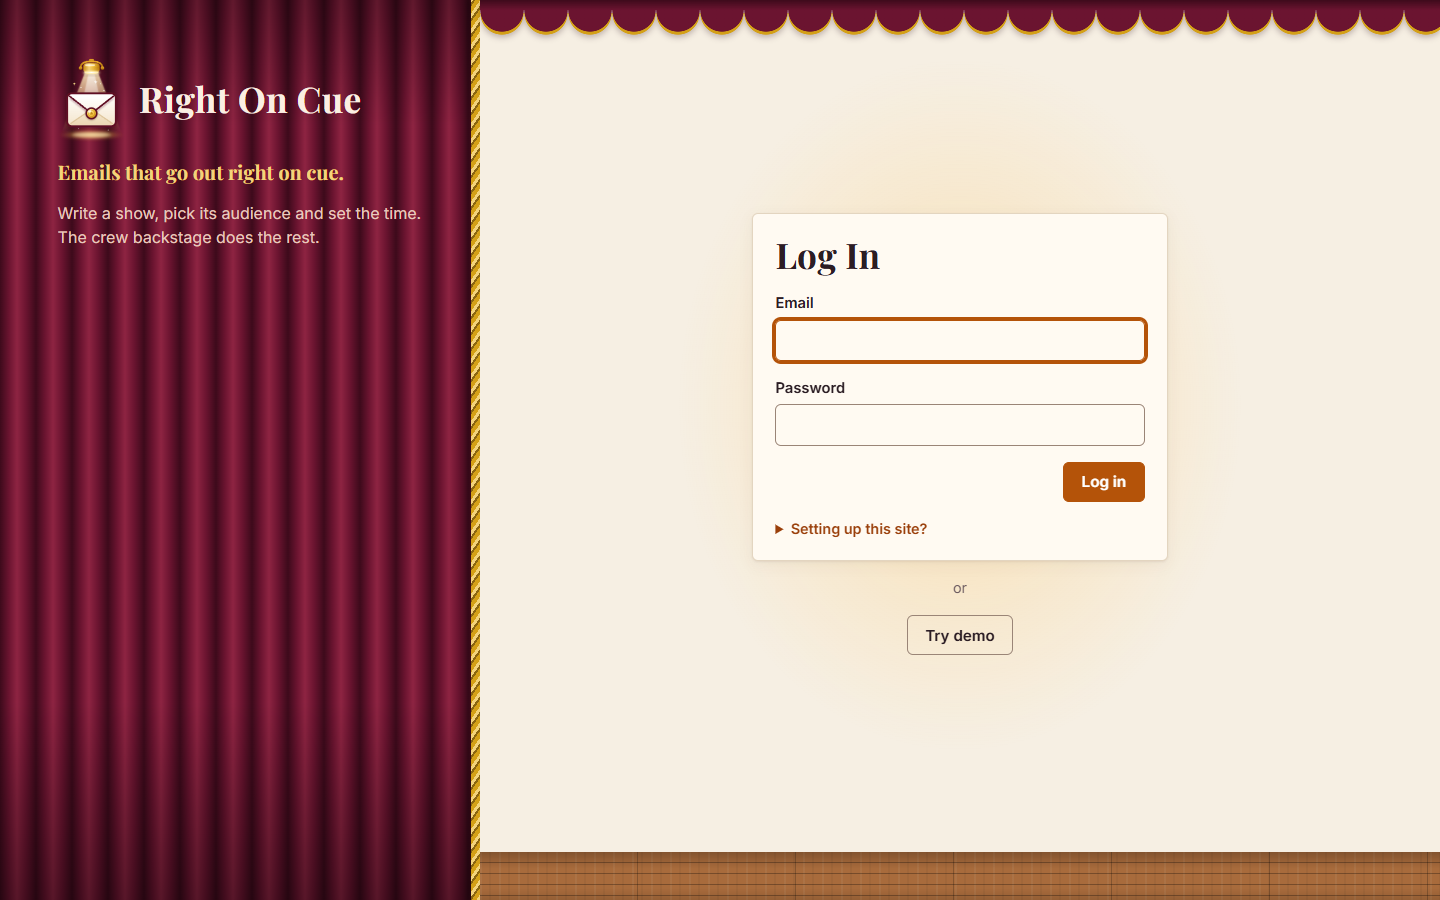
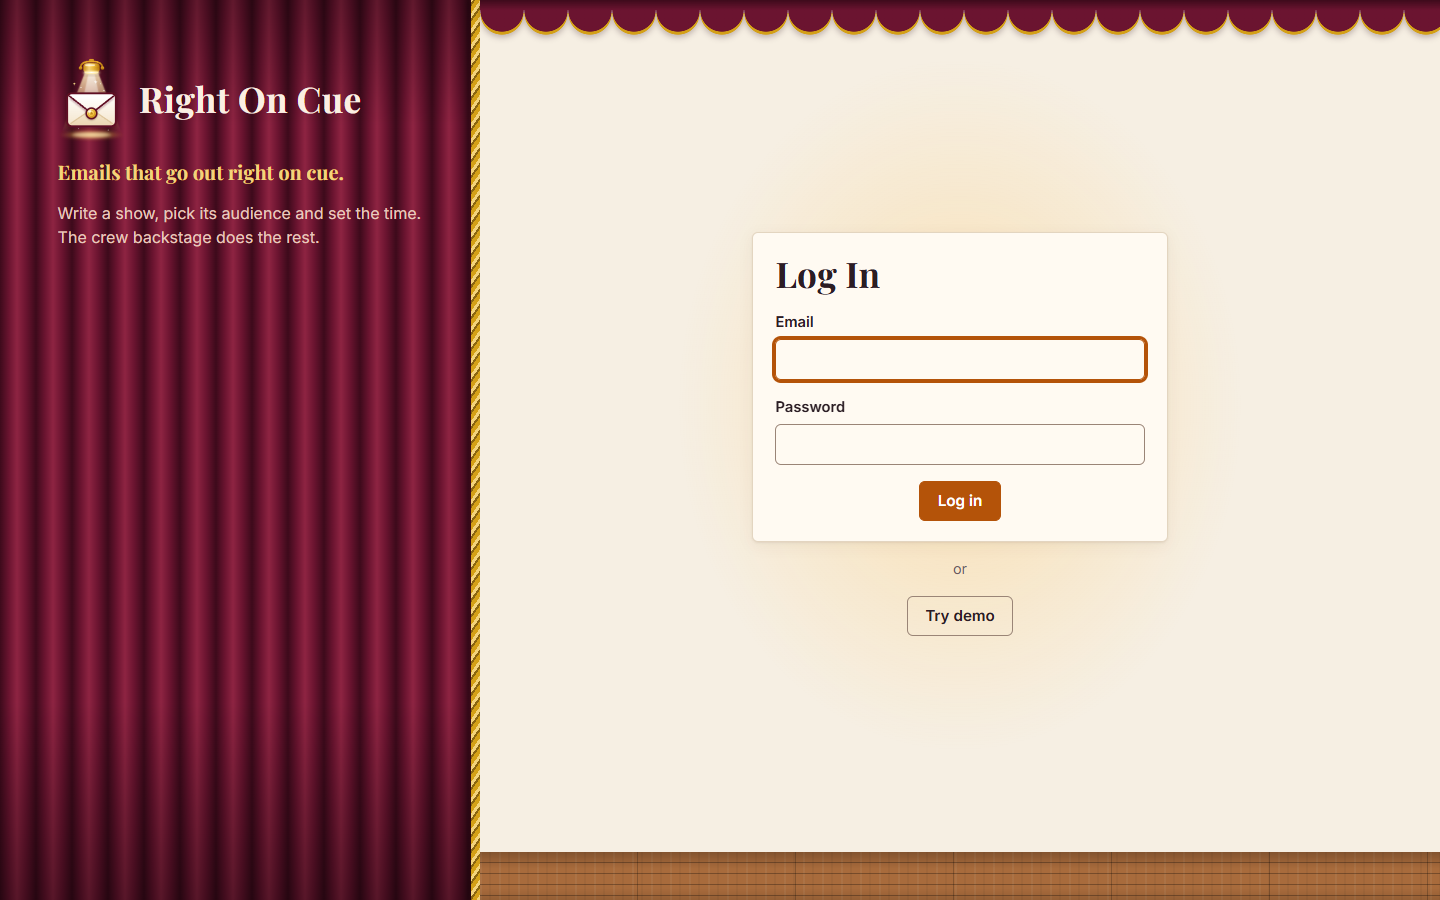
Centre the Log in button and drop the setup note
The login card's button now sits in the middle. The "Setting up this
site?" fold is gone; how to make the owner's login stays in
docs/DEPLOY.md, part 3. README login picture retaken.

Changed region(s): [[0.5312, 0.2178, 0.8125, 0.4667], [0.5, 0.4978, 0.8125, 0.6222], [0.625, 0.6533, 0.6875, 0.7156]]

diff --git a/oncue/static/style.css b/oncue/static/style.css
@@ -408,6 +408,7 @@ input:focus-visible, select:focus-visible, textarea:focus-visible { outline: 3px
 .form-row > .field { flex: 1 1 14rem; }
 .form-actions { display: flex; flex-wrap: wrap; gap: .6rem; justify-content: flex-end; align-items: center; }
 .form-actions.start { justify-content: flex-start; }
+.form-actions.center { justify-content: center; }
 .check { display: inline-flex; align-items: flex-start; gap: .55rem; cursor: pointer; }
 .check input { width: 1.1rem; height: 1.1rem; margin: .2rem 0 0; accent-color: var(--accent); flex: 0 0 auto; }
 .choices { display: flex; flex-wrap: wrap; gap: .5rem 1.25rem; border: 0; padding: 0; }
@@ -749,8 +750,6 @@ input[type="number"] { max-width: 12rem; }
 @keyframes spin { to { transform: rotate(360deg); } }
 @media (prefers-reduced-motion: reduce) { .spinner { animation: none; } }
 
-.setup-note { margin-top: 1rem; font-size: .9rem; }
-.setup-note > summary { color: var(--muted); font-weight: 600; }
 .field-help { margin-top: -.6rem; color: var(--muted); font-size: .9rem; }
 .live-tag { display: inline-block; margin-left: .3rem; padding: .05rem .45rem; border-radius: 3px; background: var(--danger-soft); color: var(--danger); font: 700 .72rem/1.5 var(--font-label); letter-spacing: .06em; text-transform: uppercase; }
 .crew-state { display: inline-flex; align-items: center; gap: .4rem; }

diff --git a/oncue/templates/login.html b/oncue/templates/login.html
@@ -20,15 +20,8 @@
           <input type="hidden" name="next" value="{{ next }}">
           {{ field('email', 'Email', email, type='email', attrs='autocomplete="email" required autofocus') }}
           {{ field('password', 'Password', type='password', attrs='autocomplete="current-password" required') }}
-          <div class="form-actions"><button class="button" type="submit">Log in</button></div>
+          <div class="form-actions center"><button class="button" type="submit">Log in</button></div>
         </form>
-        {# Only before the owner's login exists: a note for whoever is setting up the site. #}
-        {% if not has_owner %}
-          <details class="fold setup-note">
-            <summary>Setting up this site?</summary>
-            <p class="muted small">Make the owner's login from your PC with <code>flask --app oncue create-owner</code> (docs/DEPLOY.md, part 3).</p>
-          </details>
-        {% endif %}
       </div>
       <p class="or-line">or</p>
       <div class="demo-card">

diff --git a/tests/test_auth.py b/tests/test_auth.py
@@ -5,9 +5,10 @@ from oncue.models import User, Workspace
 from .conftest import PASSWORD, browser, get_user, is_logged_in, make_owner, post, text
 
 
-def test_the_login_page_says_how_to_make_the_owner(client):
+def test_the_login_page_has_only_the_login_and_the_demo(client):
     page = text(client.get("/login"))
-    assert "create-owner" in page and "Try demo" in page
+    assert "Log in" in page and "Try demo" in page
+    assert "create-owner" not in page and "Setting up this site" not in page
 
 
 def test_owner_logs_in_and_out(app, client):
@@ -15,7 +16,6 @@ def test_owner_logs_in_and_out(app, client):
     response = post(client, "/login", {"email": "Maria@Example.com ", "password": PASSWORD})
     assert response.status_code == 302 and response.headers["Location"].endswith("/stage")
     assert is_logged_in(client)
-    assert "create-owner" not in text(browser(app).get("/login"))
     post(client, "/logout")
     assert not is_logged_in(client)
 

diff --git a/oncue/auth.py b/oncue/auth.py
@@ -235,8 +235,7 @@ def login():
             log_in(user)
             return redirect(safe_next(next_page))
     status = 401 if error else 200
-    return render_template("login.html", error=error, email=email, next=next_page,
-                           has_owner=owner(db.session()) is not None), status
+    return render_template("login.html", error=error, email=email, next=next_page), status
 
 
 @bp.post("/logout")
